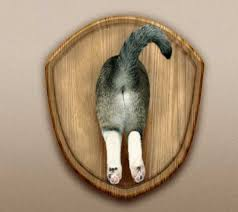
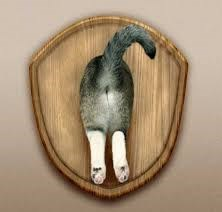
better documentation. fixed cat-ass-trophy a bit.

diff --git a/src/javafxapplication1/Styles.css b/src/javafxapplication1/Styles.css
@@ -20,7 +20,6 @@
     -fx-background-color: linear-gradient(#be1d00, #ff5400);
 }
 
-
 .text-area {
     -fx-background-color: rgba(53,89,119,0.4);
 }
@@ -35,10 +34,6 @@
 }
 
 .gameScoreDisplay {
-    /*-fx-background-color: rgba(53,89,119,0.4);
-    -fx-background-color: transparent;*/
-    /*-fx-text-alignment: CENTER-CENTER;
-    -fx-alignment: CENTER-CENTER;*/
     -fx-text-fill: #00ff00;
     -fx-font: bold 25pt "Consolas";
 }
@@ -72,15 +67,10 @@
 }
 
 .newRound_button {
-    -fx-font: bold 15pt "Arial";/*
-    -fx-background-color: linear-gradient(#82ff81, #28872c);
-    -fx-text-fill: #383640;*/
+    -fx-font: bold 15pt "Arial";
     -fx-background-color:
         linear-gradient(#f0ff35, #a9ff00),
         radial-gradient(center 50% -10%, radius 200%, #b8ee36 45%, #80c800 50%);
-    -fx-background-radius: 6, 5;
-    -fx-background-insets: 0, 1;
-    -fx-effect: dropshadow( three-pass-box , rgba(0,0,0,0.4) , 5, 0.0 , 0 , 1 );
     -fx-text-fill: #395306;
 }
 .newRound_button:hover {
@@ -89,27 +79,21 @@
     -fx-font: bold 15pt "Arial";
     -fx-background-color:
         radial-gradient(center 50% -15%, radius 200%, #80c800 45%, #b8ee36 50%);
-    -fx-background-radius: 6, 5;
-    -fx-background-insets: 0, 1;
     -fx-effect: dropshadow( one-pass-box , white , 5 , 0.0 , 5 , 5 );
 }
 
 .hit_button {
     -fx-font: bold 18pt "Arial";
-    /*-fx-background-color: linear-gradient(#9EA7E5, #61a2b1);*/
     -fx-background-color:#ff8080;
     -fx-text-fill: #383640;
 }
 
 .hit_button:hover {
-   /*  -fx-background:url("small_paw.gif") no-repeat;*/
-   /*-fx-background-color: linear-gradient(#2A5058, #61a2b1);*/
     -fx-text-fill: #ffffff;
     -fx-effect: dropshadow( one-pass-box , white , 5 , 0.0 , 5 , 5 );
 }
 
 .hit_button:focused {
-    /*-fx-background-color: linear-gradient(#ff7f50, #990000);*/
     -fx-text-fill: #ffffff;
 }
 .stand_button {

diff --git a/src/javafxapplication1/FXMLDocumentController.java b/src/javafxapplication1/FXMLDocumentController.java
@@ -105,6 +105,7 @@ public class FXMLDocumentController implements Initializable {
         _blackjackModel = new BlackjackModel();
         score.setWrapText(true);
 
+        //Set styles to items- labels, buttons and Hboxes
         hit.getStyleClass().add("hit_button");
         Image paw = new Image(getClass().getResourceAsStream("small_paw.gif"));
         hit.setGraphic(new ImageView(paw));
@@ -120,6 +121,8 @@ public class FXMLDocumentController implements Initializable {
         Meow.getStyleClass().add("meowButton");
         playerHBox.setSpacing(-50);
         dealerHBox.setSpacing(-50);
+
+        //Starts the game
         newRound();
     }
 
@@ -160,6 +163,10 @@ public class FXMLDocumentController implements Initializable {
         }
     }
     @FXML
+    /**
+     * Make a meow sound when pressing the "Meow" button.
+     * Surprised?
+     */
     private void meowButtonAction (ActionEvent event) {
             try{
                 Media meowSound = new Media(getClass().getResource("Meow.mp3").toString());
@@ -219,8 +226,8 @@ public class FXMLDocumentController implements Initializable {
     }
     @FXML
     /**
+     * UNUSED - IRRELEVANT
      * for the QA- draws a specific card from the deck
-     * TODO: the thing.
      * (make this actually work)
      */
     private void drawCardButtonAction(ActionEvent event) {
@@ -248,9 +255,11 @@ public class FXMLDocumentController implements Initializable {
     private void newGameButtonAction(ActionEvent event) {
         newRound();
     }
-    
+
+    /**
+     * Starts a new round by dealing new cards and updating the relevant fields
+     */
     private void newRound() {
-        
         BlackjackRound round = _blackjackModel.newRound();
         textDealer.clear();
         textPlayer.clear();
@@ -282,8 +291,10 @@ public class FXMLDocumentController implements Initializable {
            endRound();
         }
     }
-    
-    // 
+
+    /**
+     * Ends the round- displays "you win!"/"you lost" messege and updates the game score
+     */
     private void endRound() {
         
         // Reveal the dealer's hidden card.
@@ -301,13 +312,11 @@ public class FXMLDocumentController implements Initializable {
             drawNewCard(dealerHBox,suit,number);
         }
 
-        // Figure out some message for the user to explain what happend.
         Boolean won = _blackjackModel.currentRound().isWon();
 
         String message;
         Image result;
         if (won == null) {
-            // TODO: raise an exception or something
             System.err.println("WHAT THE FUCK DID I DO WRONG");
             return;
         }
